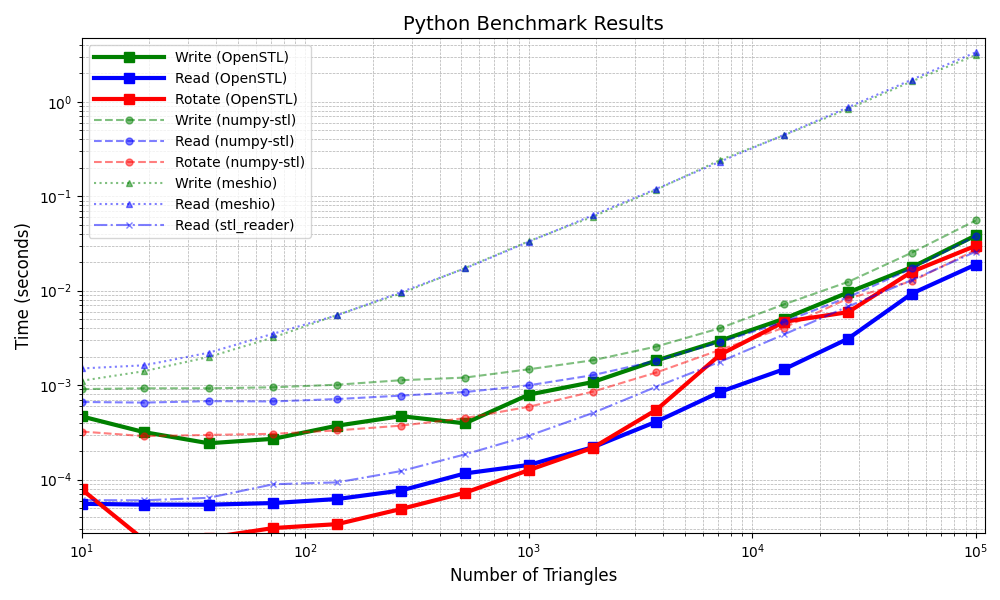
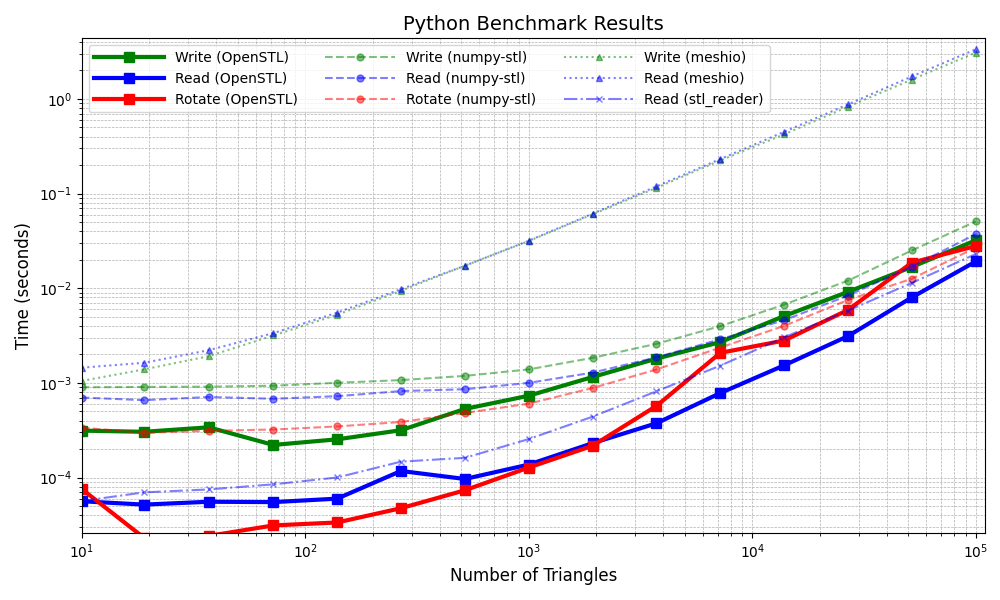
docs: 3 cols legend

Changed region(s): [[0.031, 0.06, 0.992, 0.9]]

diff --git a/benchmark/benchmark.py b/benchmark/benchmark.py
@@ -164,7 +164,7 @@ if __name__ == "__main__":
     plt.title("Python Benchmark Results", fontsize=14)
     plt.xscale("log")
     plt.yscale("log")
-    plt.legend(fontsize=10, handlelength=5, loc='upper left')
+    plt.legend(fontsize=10, handlelength=5, loc='upper left', ncol=3)
     plt.grid(True, which="both", linestyle="--", linewidth=0.5)  # Add grid lines with dashed style
     plt.tight_layout()  # Adjust layout to prevent clipping of labels
 
